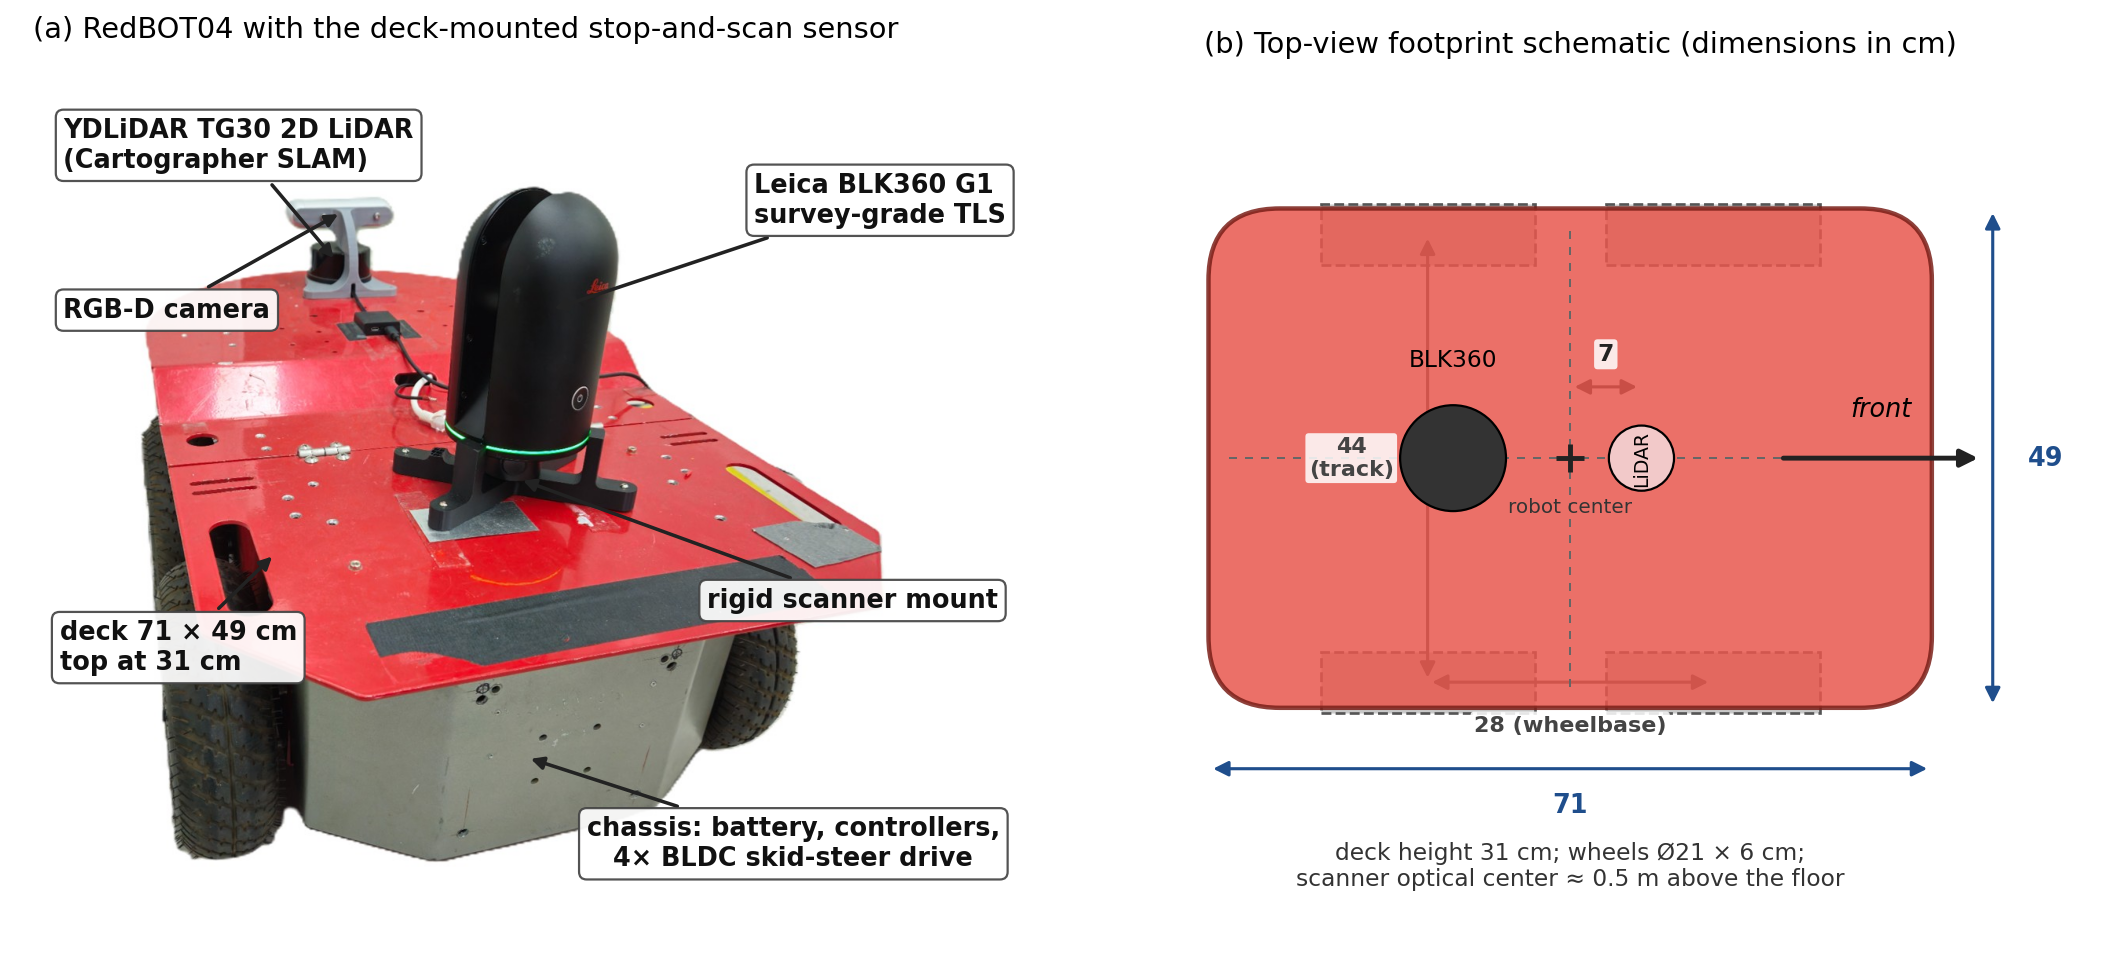
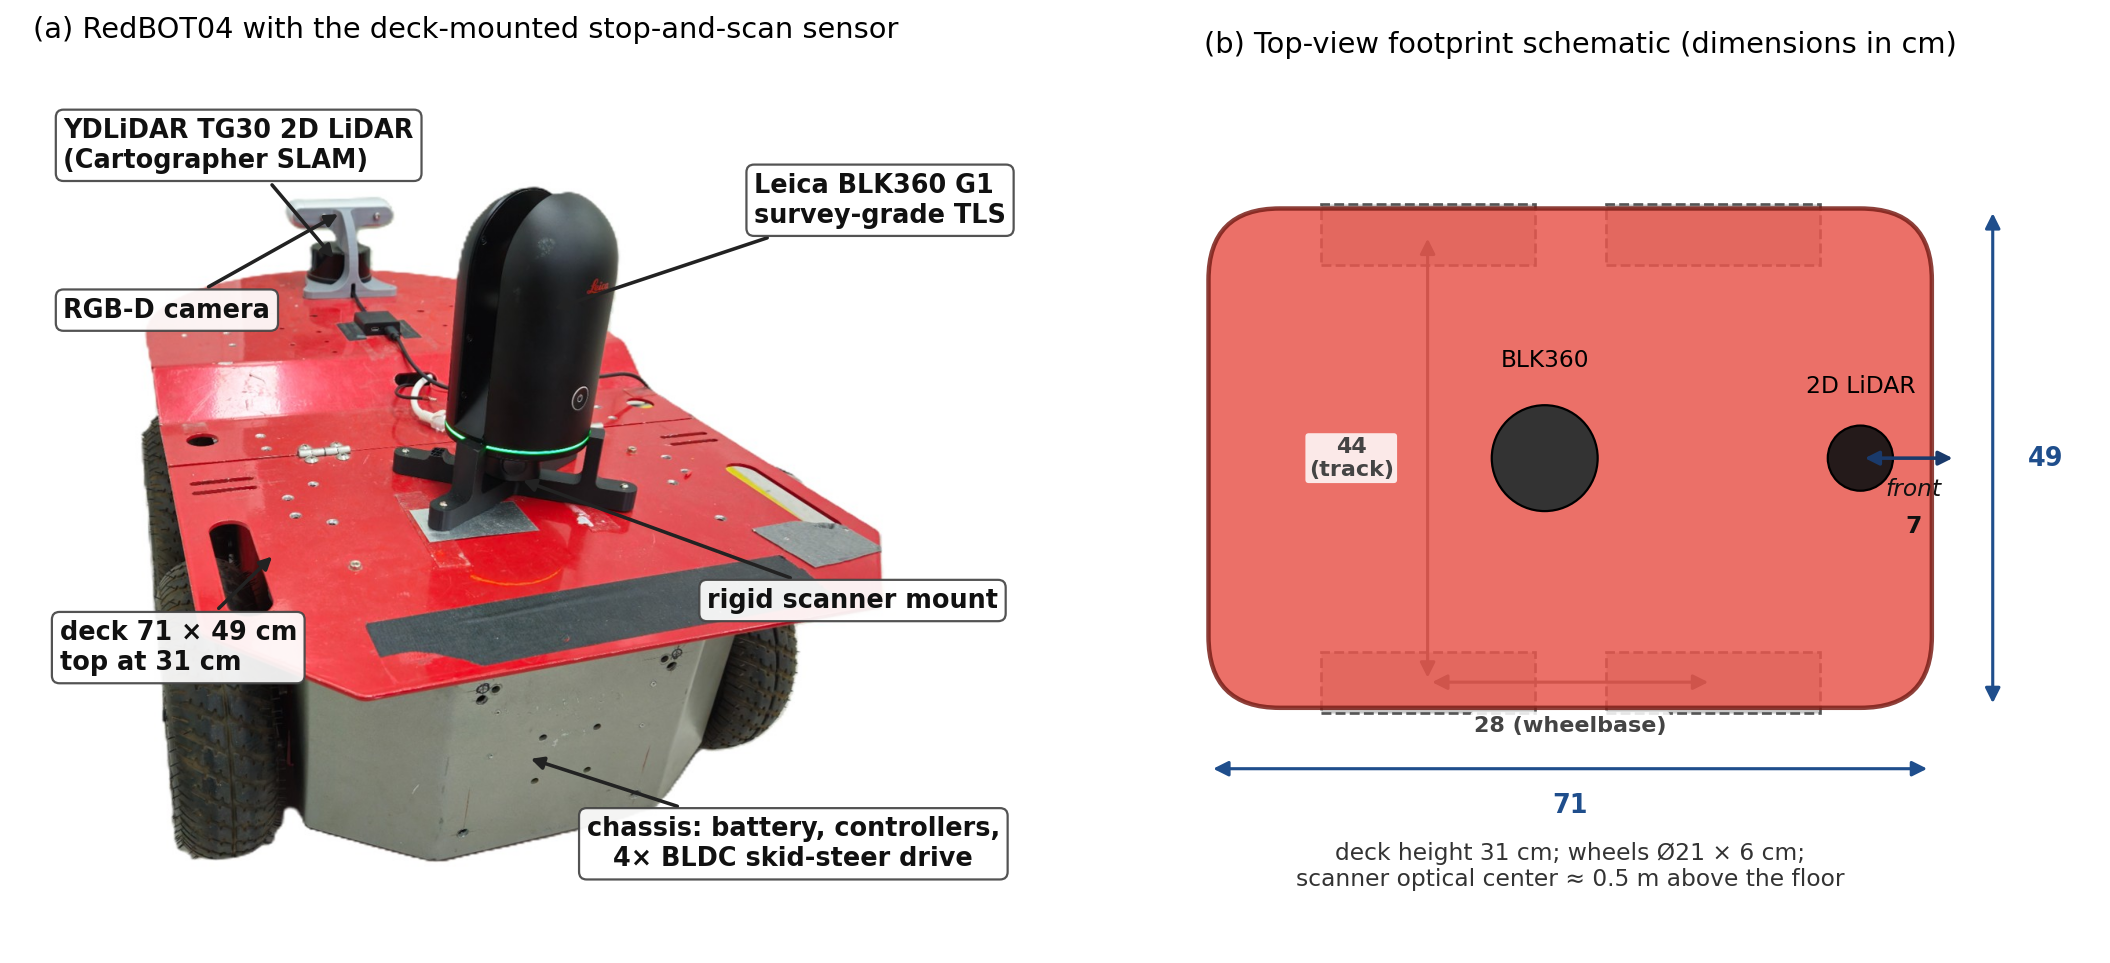
redbot fig (b) final (user mock): rounded deck + dashed wheels kept, lidar near front edge with 7cm front-edge arrow (front/7 labels), wheelbase+track dims kept

Changed region(s): [[0.6469, 0.3427, 0.8009, 0.5296], [0.8318, 0.3738, 0.955, 0.5296]]

diff --git a/scripts/render_redbot_annot.py b/scripts/render_redbot_annot.py
@@ -4,7 +4,7 @@
 Reviewer 3 asked for an annotated view with dimensions/scalar elements.
 Dimensions from the RedBOT04 hardware spec (CNRLAB_260630_Redbot.pdf):
 deck 71 x 49 cm at 31 cm height; wheelbase 28 cm; track 44 cm; wheels
-D21 x 6 cm; 2D LiDAR centered 7 cm forward of the robot center.
+D21 x 6 cm; 2D LiDAR 7 cm behind the front deck edge.
 """
 import os
 
@@ -78,28 +78,19 @@ def main():
                                boxstyle="round,pad=0.02,rounding_size=7",
                                fc="#e8574d", ec="#7a1f18", lw=2.0,
                                alpha=0.85, zorder=2))
-    # robot center (crosshair + dashed axes)
-    b.plot([35.5], [24.5], "+", color="#222222", ms=13, mew=2.2, zorder=5)
-    b.plot([2, 69], [24.5, 24.5], ls=(0, (4, 4)), lw=0.9, color="#666666",
-           zorder=2.5)
-    b.plot([35.5, 35.5], [2, 47], ls=(0, (4, 4)), lw=0.9, color="#666666",
-           zorder=2.5)
-    b.text(35.5, 19.2, "robot center", fontsize=9, ha="center",
-           color="#333333", zorder=5)
-    # 2D LiDAR: center 7 cm forward of the robot center
-    b.add_patch(Circle((42.5, 24.5), 3.2, fc="#f2c9c9", ec="k", zorder=3))
-    b.text(42.5, 24.5, "LiDAR", fontsize=8.5, ha="center", va="center",
-           rotation=90, zorder=4)
-    dim_arrow(b, (35.5, 31.5), (42.5, 31.5), "7", toff=(0, 3.2), fs=10.5,
-              color="#222222")
-    b.add_patch(FancyArrowPatch((56, 24.5), (76, 24.5), arrowstyle="-|>",
-                                mutation_scale=16, lw=2.2, color="#222222",
-                                zorder=4))
-    b.text(66, 28.6, "front", fontsize=11.5, ha="center", style="italic",
-           zorder=4)
-    # BLK360 on the rear half of the deck
-    b.add_patch(Circle((24, 24.5), 5.2, fc="#333333", ec="k", zorder=3))
-    b.text(24, 33.5, "BLK360", fontsize=10.5, ha="center", zorder=4)
+    # 2D LiDAR near the front edge, 7 cm from it
+    b.add_patch(Circle((64, 24.5), 3.2, fc="#241a1a", ec="k", zorder=3))
+    b.text(64, 31.0, "2D LiDAR", fontsize=10.5, ha="center", zorder=4)
+    b.add_patch(FancyArrowPatch((64, 24.5), (73.5, 24.5), arrowstyle="<|-|>",
+                                mutation_scale=13, lw=1.6, color="#1a3a6b",
+                                zorder=5))
+    b.text(69.2, 20.8, "front", fontsize=10.5, ha="center", style="italic",
+           color="#111111", zorder=5)
+    b.text(69.2, 17.2, "7", fontsize=10.5, ha="center", fontweight="bold",
+           color="#111111", zorder=5)
+    # BLK360 near deck center
+    b.add_patch(Circle((33, 24.5), 5.2, fc="#333333", ec="k", zorder=3))
+    b.text(33, 33.5, "BLK360", fontsize=10.5, ha="center", zorder=4)
     # dimensions
     dim_arrow(b, (0, -6), (71, -6), "71", toff=(0, -3.6))
     dim_arrow(b, (77, 0), (77, 49), "49", toff=(5.2, 0))

diff --git a/docs/sensors2026_revision/response_reviewer3.md b/docs/sensors2026_revision/response_reviewer3.md
@@ -58,7 +58,7 @@ We thank the reviewer for the careful annotation of the manuscript PDF. We ident
 
 ## Comment 10 (p. 10, Figure 2) — "This angle is difficult to understand the full scale and layout of the unit — it would useful to see an annotated set of shop drawings or a more axonometric view, with dimensions and/or scalar elements"
 
-**Response.** The platform figure has been replaced by a two-panel figure: (a) the photograph annotated with callouts for every component (Leica BLK360 G1, rigid scanner mount, YDLiDAR TG30 2D LiDAR, RGB-D camera, deck, chassis with battery/controllers/BLDC skid-steer drive); and (b) a dimensioned top-view schematic drawn from the platform's hardware specification: deck 71 × 49 cm at 31 cm height, wheelbase 28 cm, track 44 cm, wheels Ø21 × 6 cm, and the 2D LiDAR centered 7 cm forward of the robot center (marked with a crosshair), with the scanner positions and the scanner optical-center height (≈ 0.5 m) noted.
+**Response.** The platform figure has been replaced by a two-panel figure: (a) the photograph annotated with callouts for every component (Leica BLK360 G1, rigid scanner mount, YDLiDAR TG30 2D LiDAR, RGB-D camera, deck, chassis with battery/controllers/BLDC skid-steer drive); and (b) a dimensioned top-view schematic drawn from the platform's hardware specification: deck 71 × 49 cm at 31 cm height, wheelbase 28 cm, track 44 cm, wheels Ø21 × 6 cm, the 2D LiDAR 7 cm from the front deck edge, and the sensor positions marked, with the scanner optical-center height (≈ 0.5 m) noted.
 
 ## Comment 11 (p. 11, Figure 3) — "dimensions? characteristics?"
 
